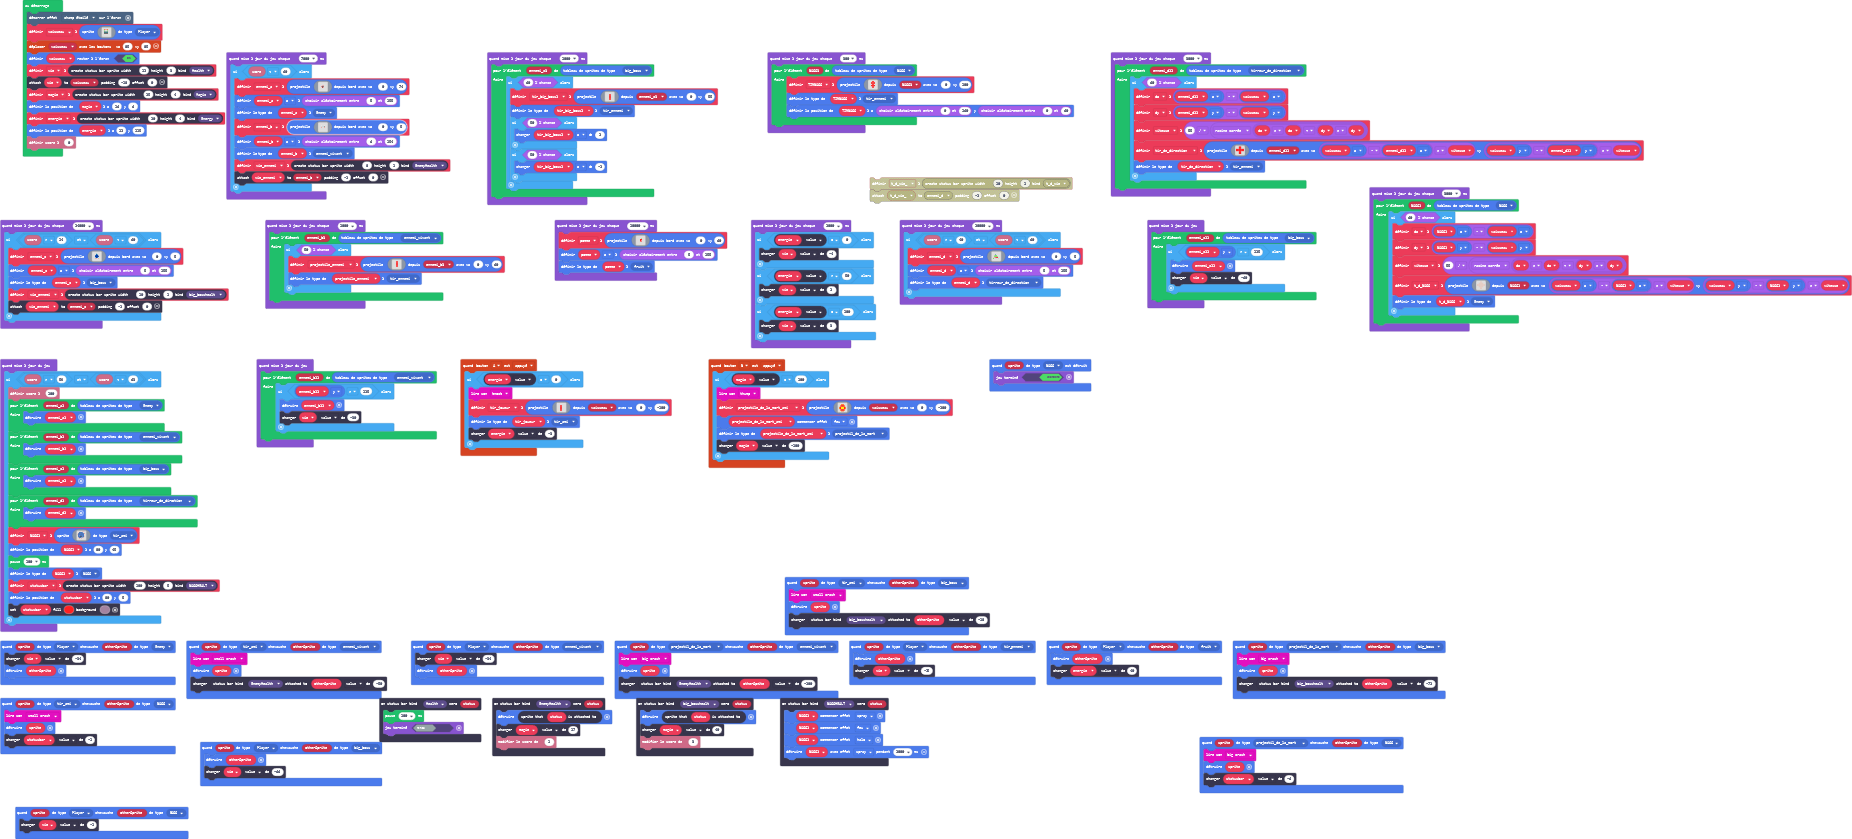
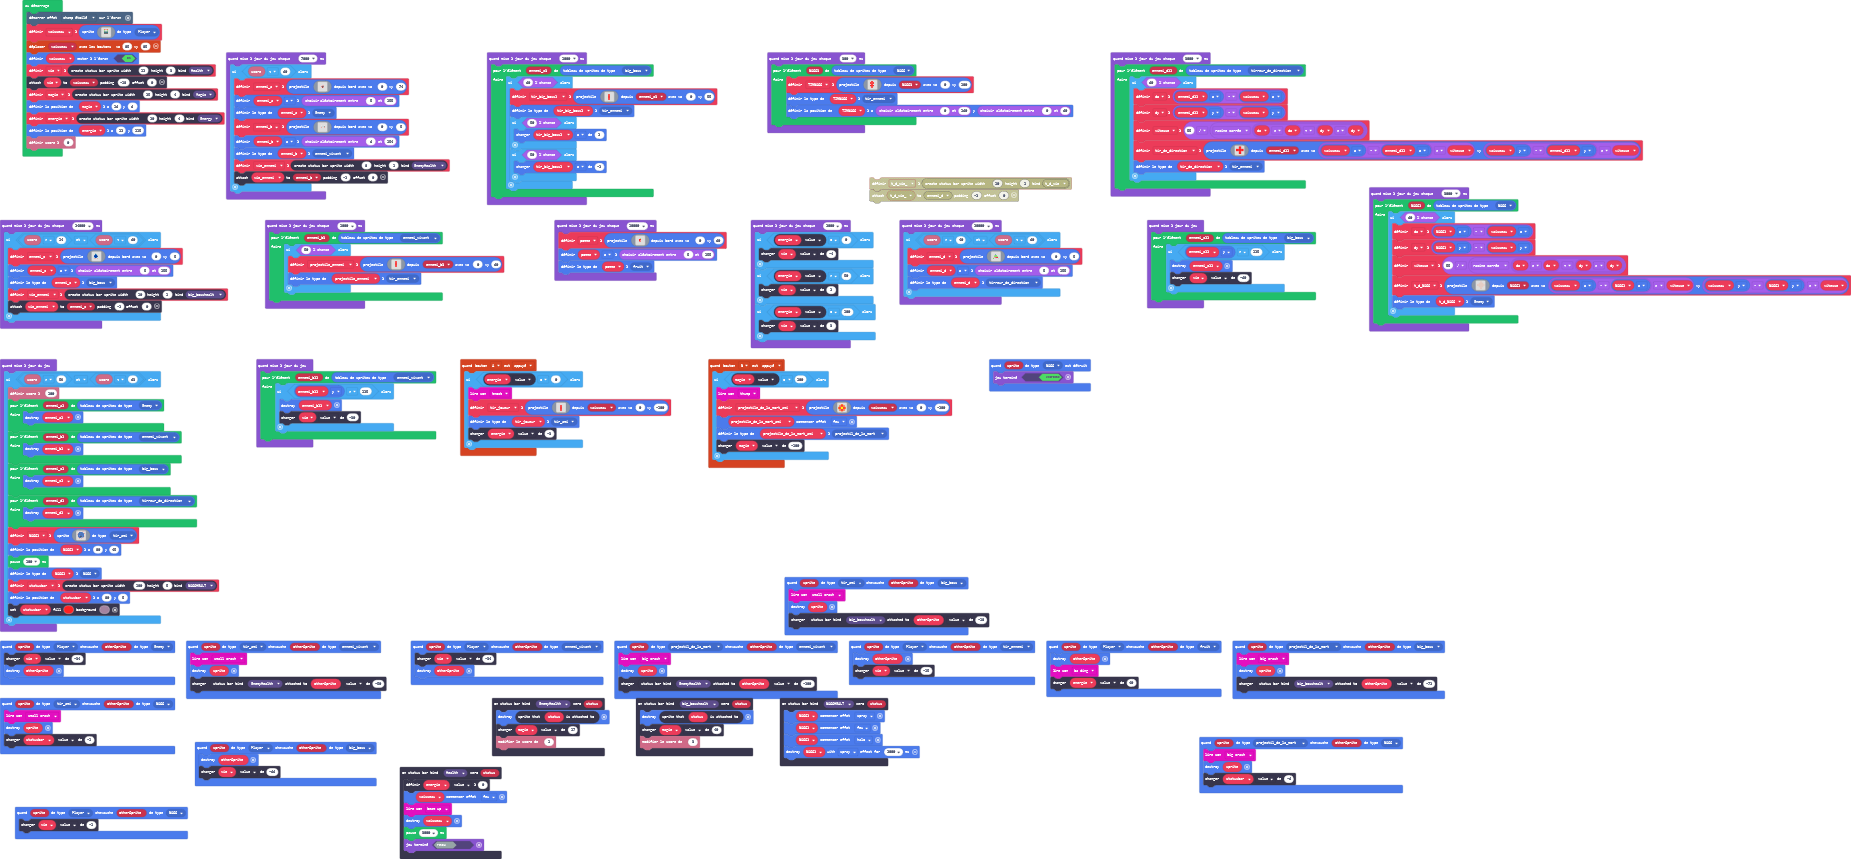
Mise à jour pxt.json, main.blocks, main.ts

Changed region(s): [[0.0, 0.0, 1.0, 1.0], [0.5235, 0.4029, 0.6159, 0.4648]]

diff --git a/main.ts b/main.ts
@@ -47,6 +47,7 @@ sprites.onOverlap(SpriteKind.Player, SpriteKind.tir_ennemi, function (sprite, ot
 })
 sprites.onOverlap(SpriteKind.Player, SpriteKind.fruit, function (sprite, otherSprite) {
     otherSprite.destroy()
+    music.baDing.play()
     energie.value += 40
 })
 sprites.onOverlap(SpriteKind.projectil_de_la_mort, SpriteKind.ennemi_vivant, function (sprite, otherSprite) {
@@ -90,7 +91,11 @@ sprites.onOverlap(SpriteKind.projectil_de_la_mort, SpriteKind.big_boss, function
     statusbars.getStatusBarAttachedTo(StatusBarKind.big_bosshealt, otherSprite).value += -72
 })
 statusbars.onZero(StatusBarKind.Health, function (status) {
-    pause(100)
+    energie.value = 0
+    vaisseau.startEffect(effects.fire)
+    music.beamUp.play()
+    sprites.destroy(vaisseau)
+    pause(3000)
     game.over(false)
 })
 controller.B.onEvent(ControllerButtonEvent.Pressed, function () {
